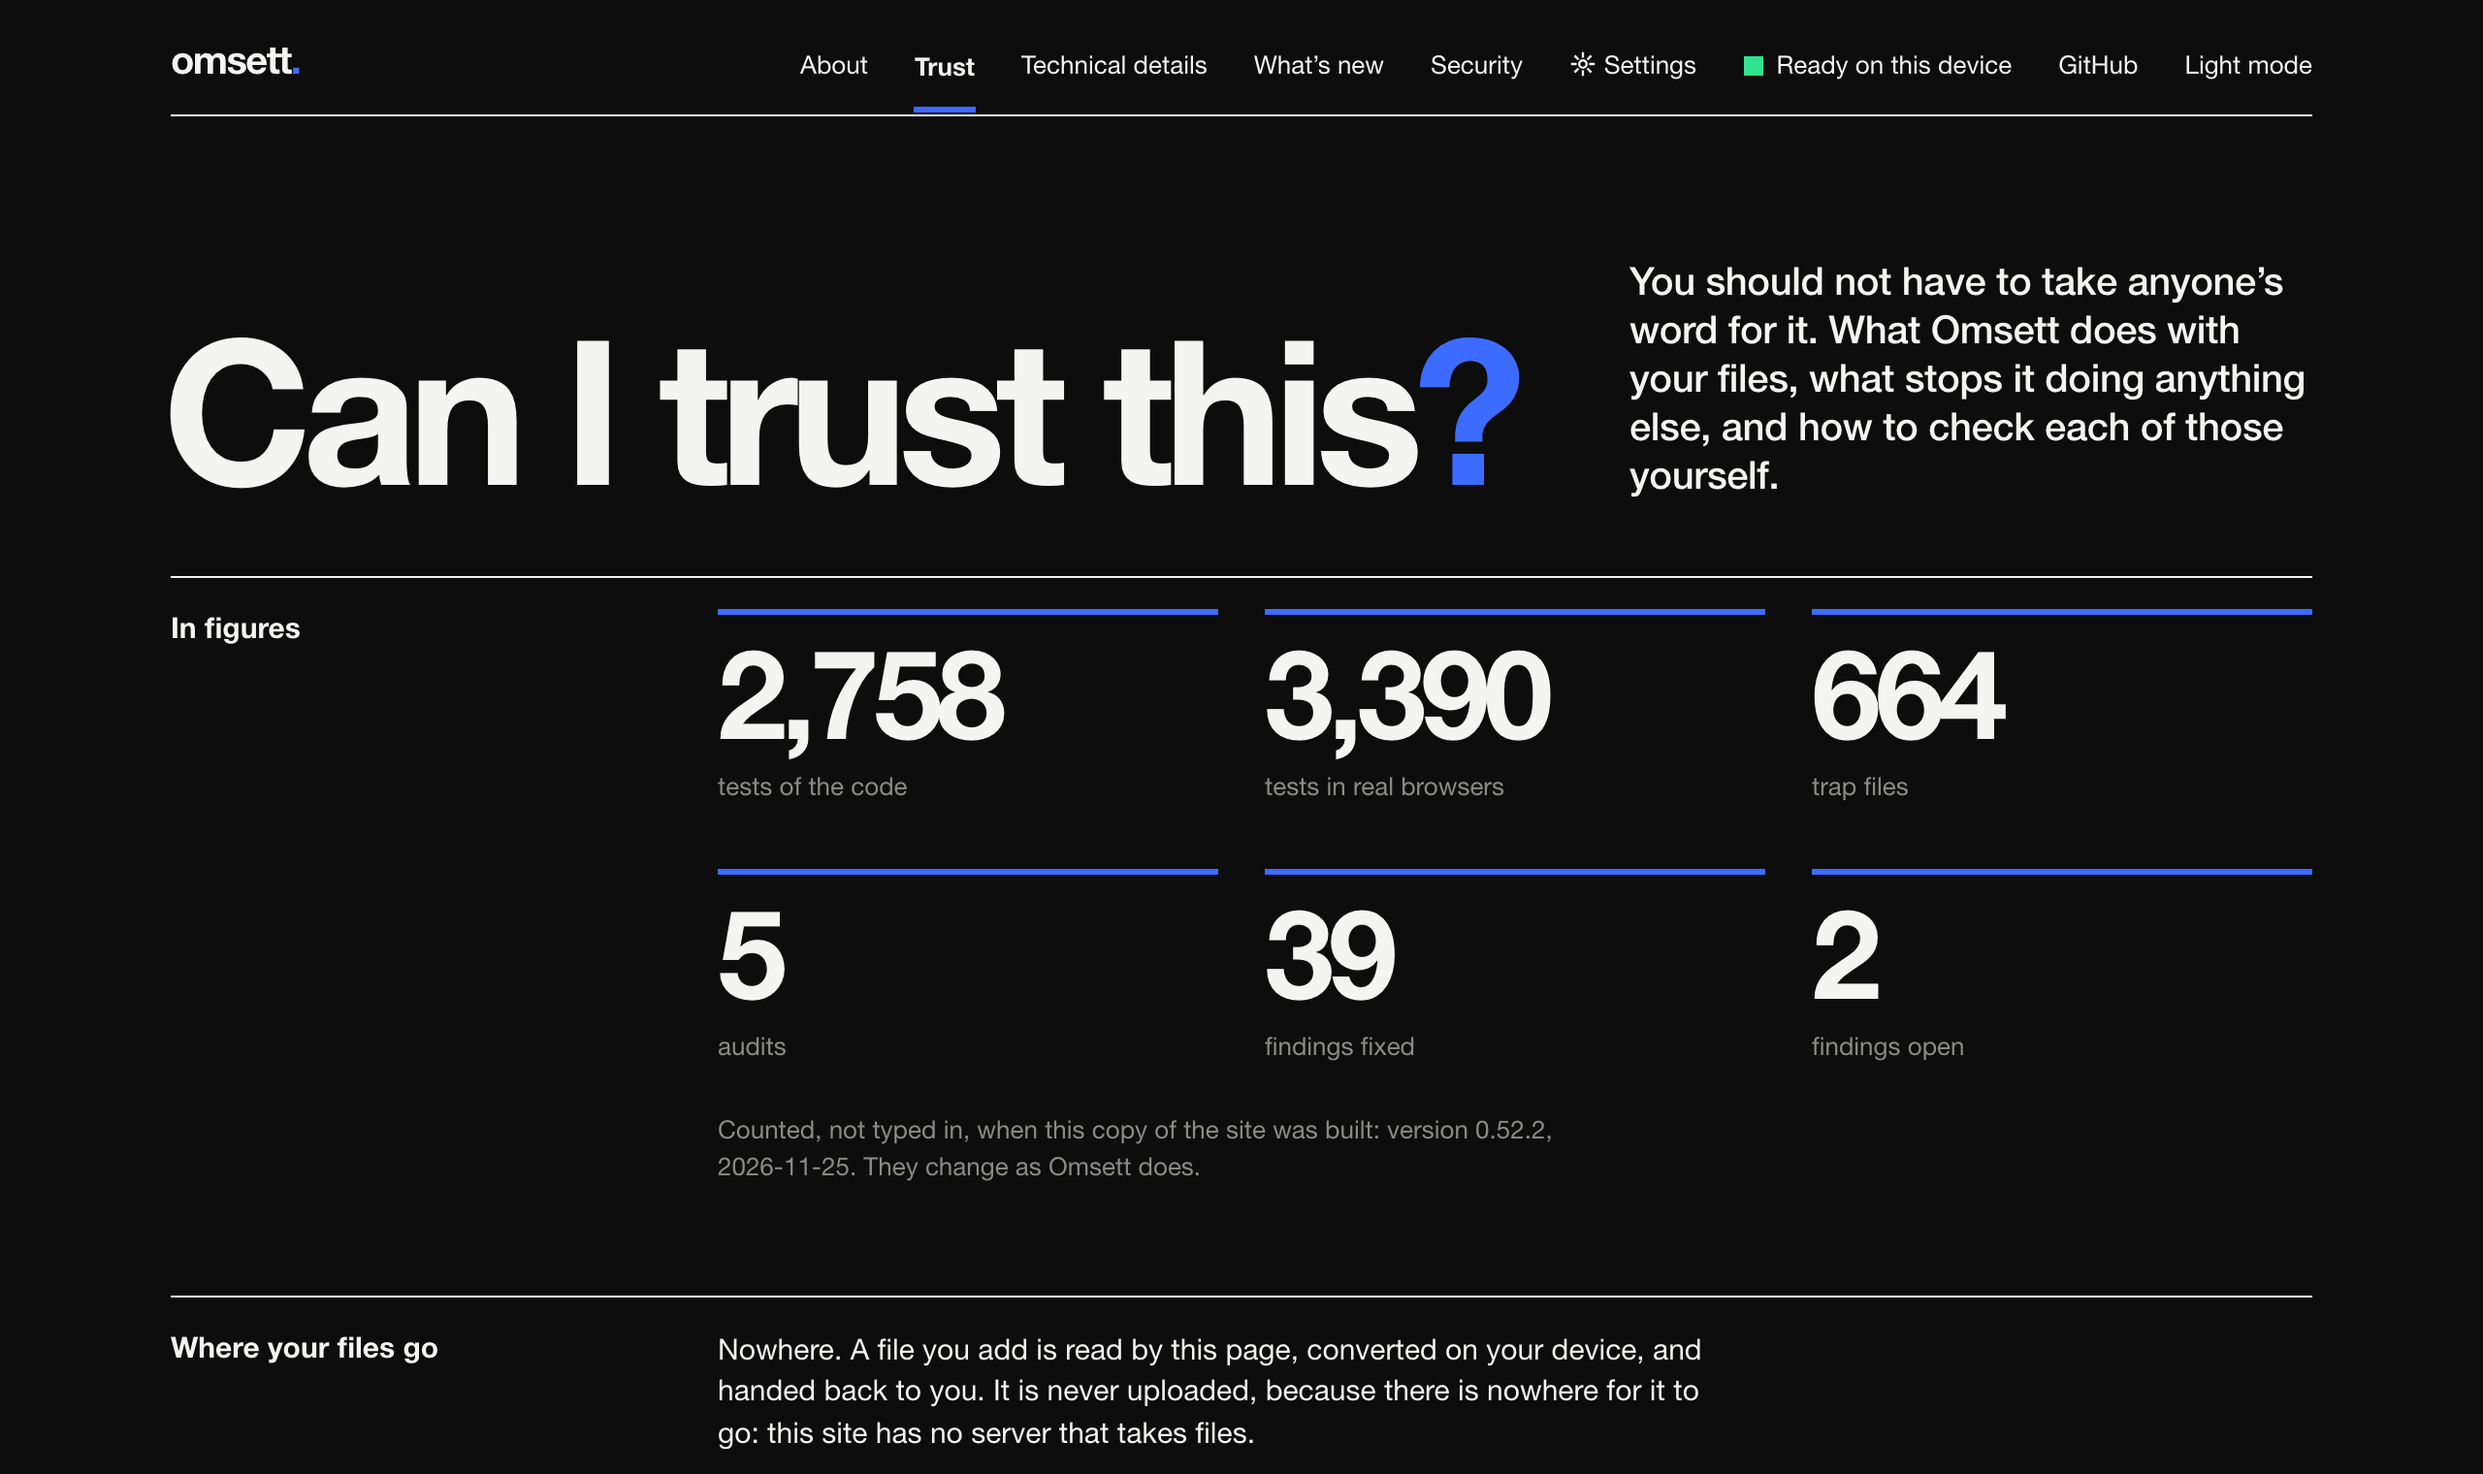
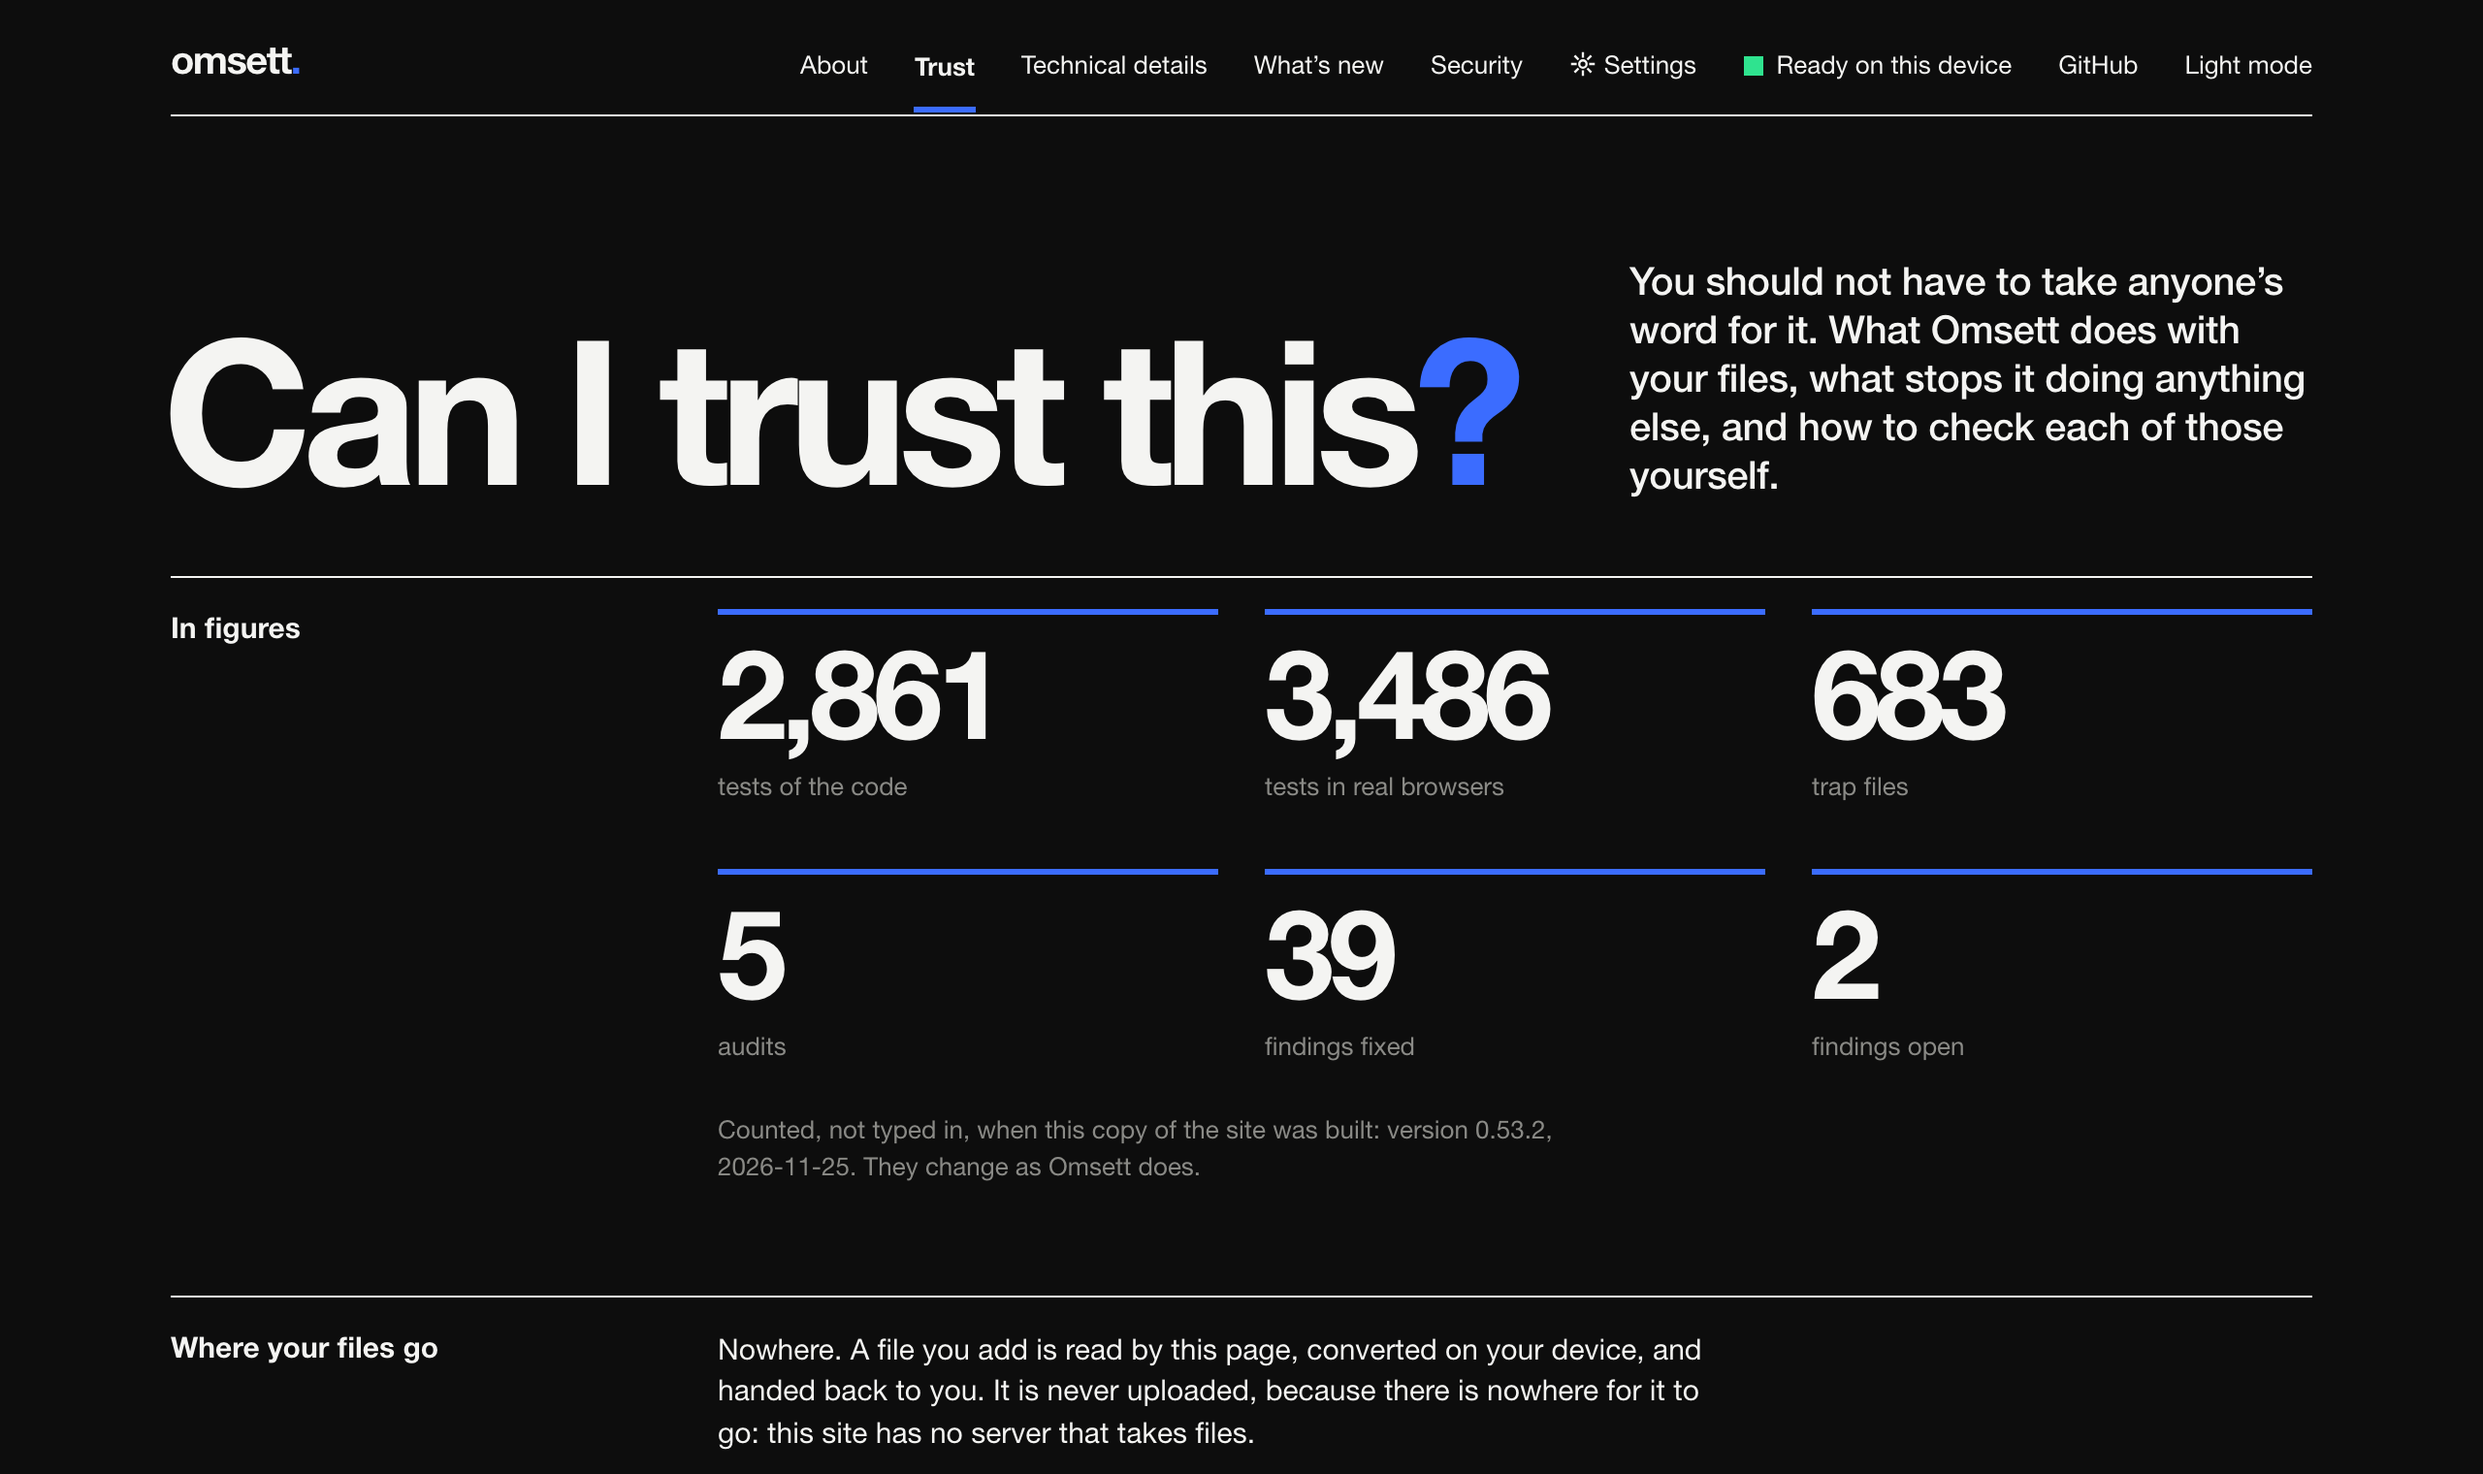
chore: a fourth shard for browser tests, a book in the README, typed lists named in the book note (0.53.2)

Changed region(s): [[0.5312, 0.4329, 0.625, 0.4947], [0.3125, 0.4329, 0.4062, 0.4947], [0.75, 0.4329, 0.8125, 0.4947]]

diff --git a/packages/registry/src/overrides.ts b/packages/registry/src/overrides.ts
@@ -80,7 +80,7 @@ const NOT_RESTORED = [{ id: 'sound-not-restored', text: 'An MP3 has already left
 const BOOK_AS_PAGE = [{ id: 'book-as-page', text: 'The whole book is set out as one document, a section to each of its pages. Headings, lists, tables, links, notes and pictures with their descriptions are kept. The book\'s own look is not: fonts, colours and layout.' }]
 const PAGE_AS_BOOK = [{ id: 'page-as-book', text: 'A chapter starts at each main heading, and the headings become the list of contents. Pictures inside the file go into the book. A picture kept on a website is not fetched: its description is kept.' }]
 // A book is as its publisher made it, and the person converting it is rarely the publisher.
-const AS_PUBLISHED = [{ id: 'book-as-published', text: 'A book is only as accessible as its publisher made it. Pictures that came without a description, and tables without headings, stay that way: Omsett keeps what the book has and cannot add what it lacks.' }]
+const AS_PUBLISHED = [{ id: 'book-as-published', text: 'A book is only as accessible as its publisher made it. Pictures that came without a description, tables without headings, and lists typed as plain paragraphs, stay that way: Omsett keeps what the book has and cannot add what it lacks.' }]
 const KINDLE_BOOK = [{ id: 'book-kept', text: 'The pages, pictures, stylesheets, links and list of contents are kept, and so are the title and the author. Fonts carried inside the book are not, and nor is anything a page could run.' }]
 const TABLE_PAGE = [{ id: 'table-as-page', text: 'The rows are set out as one table on a page, to be read. The first row of the table names its columns. Lists and groups inside a row are written as text.' }]
 

diff --git a/e2e/readme-screenshots.spec.ts b/e2e/readme-screenshots.spec.ts
@@ -22,6 +22,22 @@ test('converter', async ({ page }) => {
   await page.screenshot({ path: out('converter') })
 })
 
+test('book', async ({ page }) => {
+  await page.goto('/')
+  await page.getByRole('radiogroup').waitFor()
+  await page.getByTestId('whats-new-dismiss').click().catch(() => {})
+  await page.locator('#file-input').setInputFiles(fixture('azw3/sample.azw3'))
+  await page.getByRole('radio', { name: /EPUB/ }).click()
+  await page.waitForTimeout(400)
+  // The file, the formats and the notes under them: the top of the page is in the first picture.
+  await page.evaluate(() => {
+    const card = document.querySelector('.file-card')!
+    window.scrollTo(0, card.getBoundingClientRect().top + window.scrollY - 40)
+  })
+  await page.waitForTimeout(200)
+  await page.screenshot({ path: out('book') })
+})
+
 test('compare', async ({ page }) => {
   await page.goto('/')
   await page.getByRole('radiogroup').waitFor()

diff --git a/README.md b/README.md
@@ -14,7 +14,7 @@
 
 **Drop a file. Pick a format. Nothing leaves your device.**
 
-Omsett is a free, open-source file converter. Every conversion runs in your browser, on your own device, so your files are never uploaded: there is no server for them to go to. Pictures, documents, spreadsheets, data, subtitles, screenplays, fonts, archives, sound (MP3, WAV, FLAC, AIFF) and Kindle e-books convert today; more e-book and sound formats, video and a desktop app are ahead.
+Omsett is a free, open-source file converter. Every conversion runs in your browser, on your own device, so your files are never uploaded: there is no server for them to go to. Pictures, documents, spreadsheets, data, subtitles, screenplays, fonts, archives, sound (MP3, WAV, FLAC, AIFF) and e-books (EPUB and Kindle) convert today; more sound formats, video and a desktop app are ahead.
 
 *Omsett* is Norwegian: to translate; to convert.
 
@@ -61,6 +61,11 @@ A file is offered the formats of its own kind: a picture becomes another picture
 - **Names what it makes so it is not mistaken for the original**: “report-converted.pdf”, or words of your own, set in Settings.
 - **Reads e-books**: an EPUB or a Kindle book (AZW3 or MOBI, without copy protection) becomes a PDF, a Word document, Markdown or a web page, with its headings, notes, links and pictures kept; a Kindle book also becomes an EPUB, read on anything.
 - **Makes an EPUB of a document**: Word, Markdown, a web page or a PDF, a chapter to each main heading, the headings as its list of contents.
+
+<p align="center">
+  <img src="docs/screenshots/book.png" alt="A Kindle book added: EPUB is the first format offered, then Markdown, a web page and Word, each with the note that a book is only as accessible as its publisher made it." width="820">
+</p>
+
 - **Makes a PDF, a Word document or a web page of a spreadsheet**: a workbook or a CSV is set out as a real table, with its column names marked, on pages turned sideways if it is wide.
 - **Makes a PDF of a picture**: a scan or a photograph becomes a page, without the photograph's location and other metadata.
 - **Makes icons**: any picture to a Windows icon, a Mac icon or a mouse pointer, at the sizes each expects.

diff --git a/CHANGELOG.md b/CHANGELOG.md
@@ -7,6 +7,23 @@ The paragraph that opens a version is its teaser: the home page shows its first 
 in the "What's new" banner, so keep it to two or three sentences on what a visitor will notice.
 A line beginning "Released" gives the date.
 
+## 0.53.2
+
+Released 25 November 2026.
+
+The note on converting a book now also names lists typed as plain paragraphs, which a Word
+file is marked down for and a PDF is not. The README shows a book being converted.
+
+### Changed
+
+- **The note on a book's accessibility names typed lists.** Several books lent for testing
+  scored lower as Word files than as PDFs. The Word writer was not at fault: those books have
+  no real lists at all, only paragraphs that begin "1." or with a bullet, and a checker counts
+  those in a Word file. Omsett keeps them as the book has them and does not guess at lists.
+- **The browser tests run in four parts for each browser.** WebKit's parts were still at
+  fifteen minutes with three.
+- **The README has a picture of a book being converted**, and its other pictures are retaken.
+
 ## 0.53.1
 
 Released 24 November 2026.
